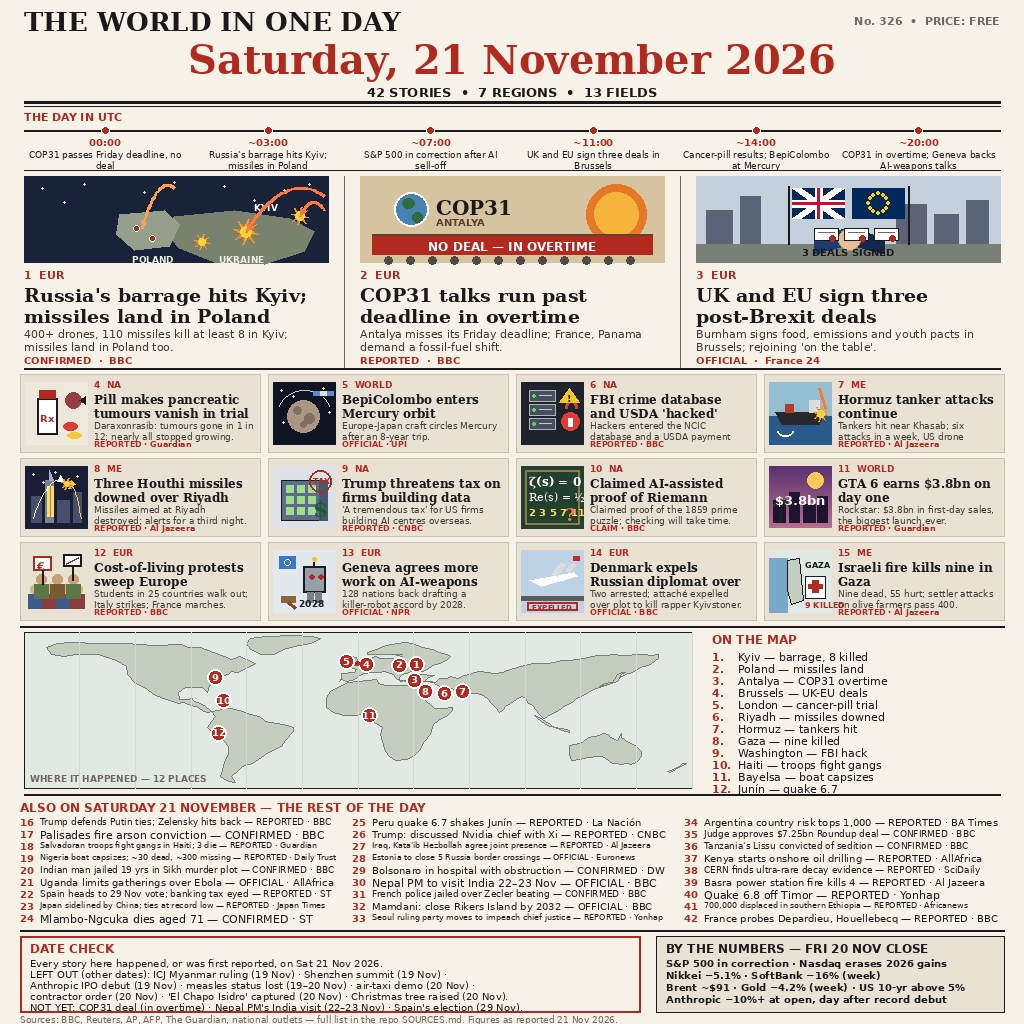
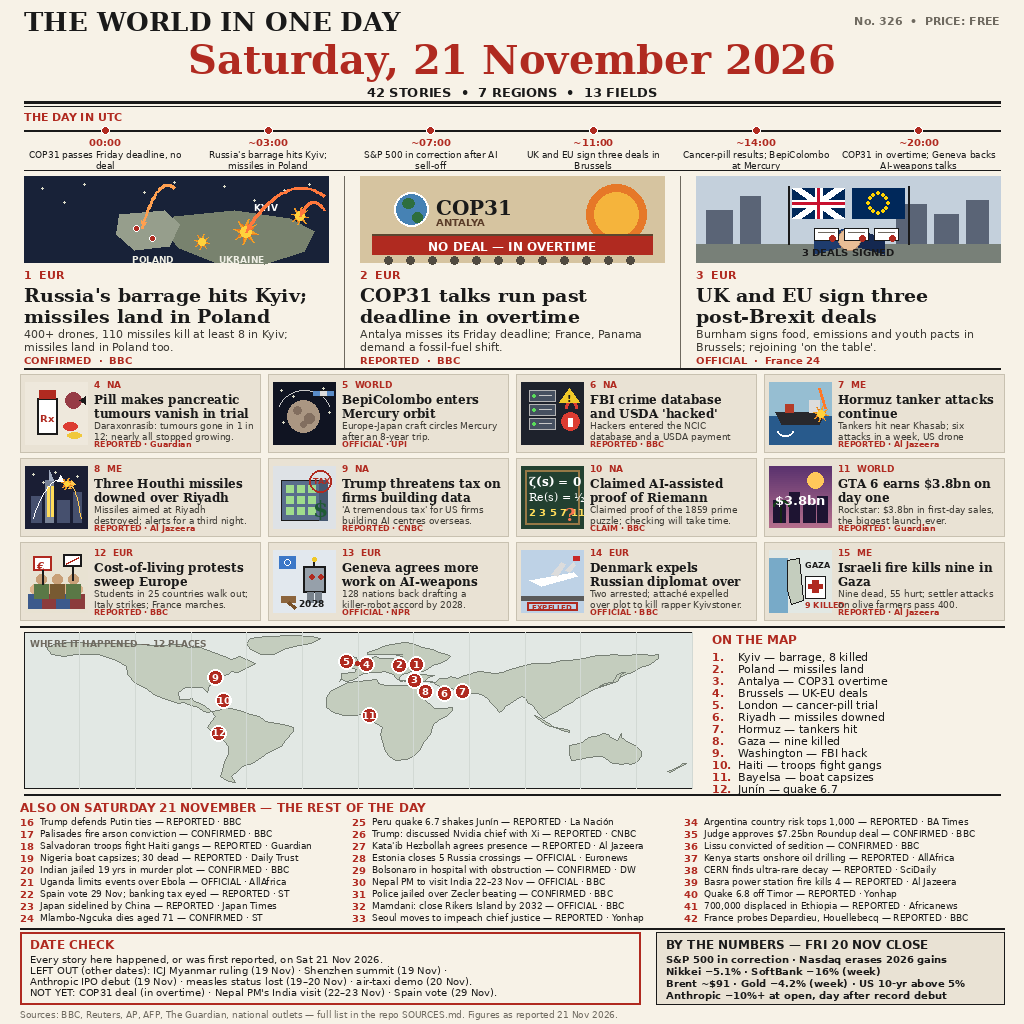
news-image-20261121: tidy bottom — uniform briefs, DATE CHECK + footer margins

diff --git a/render.py b/render.py
@@ -140,32 +140,32 @@ MEDIUM = [
 
 # (number, region, headline, tag, source) -- numbered list.
 BRIEFS = [
-    (16, "NA", "Trump defends Putin ties; Zelensky hits back", "REPORTED", "BBC"),
+    (16, "NA", "Trump defends Putin ties", "REPORTED", "BBC"),
     (17, "NA", "Palisades fire arson conviction", "CONFIRMED", "BBC"),
-    (18, "LATAM", "Salvadoran troops fight gangs in Haiti; 3 die", "REPORTED", "Guardian"),
-    (19, "AFR", "Nigeria boat capsizes; ~30 dead, ~300 missing", "REPORTED", "Daily Trust"),
-    (20, "NA", "Indian man jailed 19 yrs in Sikh murder plot", "CONFIRMED", "BBC"),
-    (21, "AFR", "Uganda limits gatherings over Ebola", "OFFICIAL", "AllAfrica"),
-    (22, "EUR", "Spain heads to 29 Nov vote; banking tax eyed", "REPORTED", "ST"),
-    (23, "APAC", "Japan sidelined by China; ties at record low", "REPORTED", "Japan Times"),
+    (18, "LATAM", "Salvadoran troops fight Haiti gangs", "REPORTED", "Guardian"),
+    (19, "AFR", "Nigeria boat capsizes; 30 dead", "REPORTED", "Daily Trust"),
+    (20, "NA", "Indian jailed 19 yrs in murder plot", "CONFIRMED", "BBC"),
+    (21, "AFR", "Uganda limits events over Ebola", "OFFICIAL", "AllAfrica"),
+    (22, "EUR", "Spain vote 29 Nov; banking tax eyed", "REPORTED", "ST"),
+    (23, "APAC", "Japan sidelined by China", "REPORTED", "Japan Times"),
     (24, "AFR", "Mlambo-Ngcuka dies aged 71", "CONFIRMED", "ST"),
     (25, "LATAM", "Peru quake 6.7 shakes Junín", "REPORTED", "La Nación"),
     (26, "NA", "Trump: discussed Nvidia chief with Xi", "REPORTED", "CNBC"),
-    (27, "ME", "Iraq, Kata'ib Hezbollah agree joint presence", "REPORTED", "Al Jazeera"),
-    (28, "EUR", "Estonia to close 5 Russia border crossings", "OFFICIAL", "Euronews"),
+    (27, "ME", "Kata'ib Hezbollah agrees presence", "REPORTED", "Al Jazeera"),
+    (28, "EUR", "Estonia closes 5 Russia crossings", "OFFICIAL", "Euronews"),
     (29, "LATAM", "Bolsonaro in hospital with obstruction", "CONFIRMED", "DW"),
     (30, "APAC", "Nepal PM to visit India 22–23 Nov", "OFFICIAL", "BBC"),
-    (31, "EUR", "French police jailed over Zecler beating", "CONFIRMED", "BBC"),
+    (31, "EUR", "Police jailed over Zecler beating", "CONFIRMED", "BBC"),
     (32, "NA", "Mamdani: close Rikers Island by 2032", "OFFICIAL", "BBC"),
-    (33, "APAC", "Seoul ruling party moves to impeach chief justice", "REPORTED", "Yonhap"),
+    (33, "APAC", "Seoul moves to impeach chief justice", "REPORTED", "Yonhap"),
     (34, "LATAM", "Argentina country risk tops 1,000", "REPORTED", "BA Times"),
     (35, "NA", "Judge approves $7.25bn Roundup deal", "CONFIRMED", "BBC"),
-    (36, "AFR", "Tanzania's Lissu convicted of sedition", "CONFIRMED", "BBC"),
+    (36, "AFR", "Lissu convicted of sedition", "CONFIRMED", "BBC"),
     (37, "AFR", "Kenya starts onshore oil drilling", "REPORTED", "AllAfrica"),
-    (38, "EUR", "CERN finds ultra-rare decay evidence", "REPORTED", "SciDaily"),
+    (38, "EUR", "CERN finds ultra-rare decay", "REPORTED", "SciDaily"),
     (39, "ME", "Basra power station fire kills 4", "REPORTED", "Al Jazeera"),
     (40, "APAC", "Quake 6.8 off Timor", "REPORTED", "Yonhap"),
-    (41, "AFR", "700,000 displaced in southern Ethiopia", "REPORTED", "Africanews"),
+    (41, "AFR", "700,000 displaced in Ethiopia", "REPORTED", "Africanews"),
     (42, "EUR", "France probes Depardieu, Houellebecq", "REPORTED", "BBC"),
 ]
 
@@ -797,7 +797,7 @@ def draw_map(draw):
         s = str(n)
         draw.text((cx - text_w(draw, s, df) / 2, cy - 7), s, font=df,
                   fill=(255, 255, 255))
-    draw.text((mx0 + 6, my1 - 15), "WHERE IT HAPPENED — 12 PLACES",
+    draw.text((mx0 + 6, my0 + 6), "WHERE IT HAPPENED — 12 PLACES",
               font=font(SANS_B, 9), fill=GREY)
     lx = 712
     draw.text((lx, 632), "ON THE MAP", font=font(SANS_B, 12), fill=RED)
@@ -818,32 +818,36 @@ def draw_briefs(draw):
     row_h = 12
     y0 = 816
     nf = font(SANS_B, 10)
+    bf = font(SANS, 9)
     for idx, (num, region, head, tag, src) in enumerate(BRIEFS):
         col, row = divmod(idx, 9)
         x = cols_x[col]
         y = y0 + row * row_h
-        rest = "%s — %s · %s" % (head, tag, src)
+        suffix = " — %s · %s" % (tag, src)
         nx = x + (16 if num < 10 else 20)
-        f = fit_font(draw, rest, SANS, 11, 8, col_w - (nx - x) - 4)
+        avail = col_w - (nx - x) - 4 - text_w(draw, suffix, bf)
+        h = head
+        while h and text_w(draw, h + "…", bf) > avail:
+            h = h.rsplit(" ", 1)[0] if " " in h else h[:-1]
+        rest = h + ("…" if h != head else "") + suffix
         draw.text((x, y), str(num), font=nf, fill=RED)
-        draw.text((nx, y), rest, font=f, fill=INK)
-    hline(draw, 20, 1004, 930, width=2)
+        draw.text((nx, y), rest, font=bf, fill=INK)
+    hline(draw, 20, 1004, 928, width=2)
 
 
 def draw_bottom(draw):
     # DATE CHECK box
     bx0, bx1 = 20, 640
-    by0 = 936
-    draw.rectangle([bx0, by0, bx1, 1012], outline=RED, width=2)
+    by0 = 932
+    draw.rectangle([bx0, by0, bx1, 1004], outline=RED, width=2)
     draw.text((bx0 + 10, by0 + 5), "DATE CHECK",
               font=font(SANS_B, 12), fill=RED)
     df = font(SANS, 10)
     lines = [
         "Every story here happened, or was first reported, on Sat 21 Nov 2026.",
         "LEFT OUT (other dates): ICJ Myanmar ruling (19 Nov) · Shenzhen summit (19 Nov) ·",
-        "Anthropic IPO debut (19 Nov) · measles status lost (19–20 Nov) · air-taxi demo (20 Nov) ·",
-        "contractor order (20 Nov) · 'El Chapo Isidro' captured (20 Nov) · Christmas tree raised (20 Nov).",
-        "NOT YET: COP31 deal (in overtime) · Nepal PM's India visit (22–23 Nov) · Spain's election (29 Nov).",
+        "Anthropic IPO debut (19 Nov) · measles status lost (19–20 Nov) · air-taxi demo (20 Nov).",
+        "NOT YET: COP31 deal (in overtime) · Nepal PM's India visit (22–23 Nov) · Spain vote (29 Nov).",
     ]
     y = by0 + 21
     for ln in lines:
@@ -851,7 +855,7 @@ def draw_bottom(draw):
         y += 11
     # BY THE NUMBERS box
     nx0, nx1 = 656, 1004
-    draw.rectangle([nx0, by0, nx1, 1012], fill=LIGHT, outline=RULE, width=1)
+    draw.rectangle([nx0, by0, nx1, 1004], fill=LIGHT, outline=RULE, width=1)
     draw.text((nx0 + 10, by0 + 5), "BY THE NUMBERS — FRI 20 NOV CLOSE",
               font=font(SANS_B, 12), fill=INK)
     nf = font(SANS_B, 10)
@@ -869,7 +873,7 @@ def draw_bottom(draw):
     ff = font(SANS, 9)
     foot = ("Sources: BBC, Reuters, AP, AFP, The Guardian, national outlets — "
             "full list in the repo SOURCES.md. Figures as reported 21 Nov 2026.")
-    draw.text((20, 1014), foot, font=ff, fill=GREY)
+    draw.text((20, 1009), foot, font=ff, fill=GREY)
 
 
 def main():
